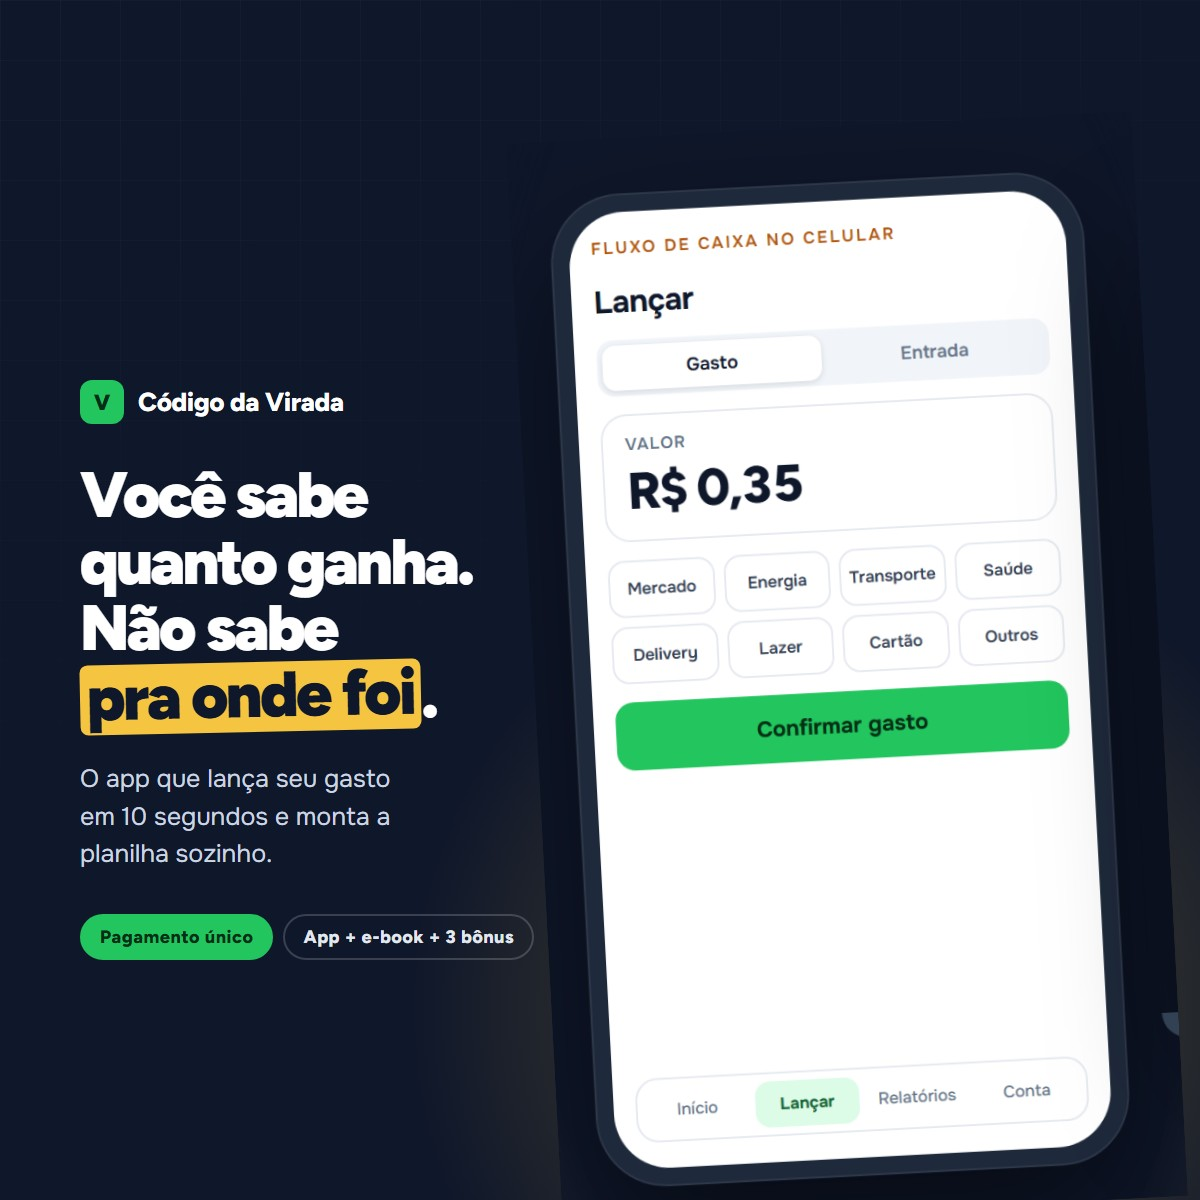
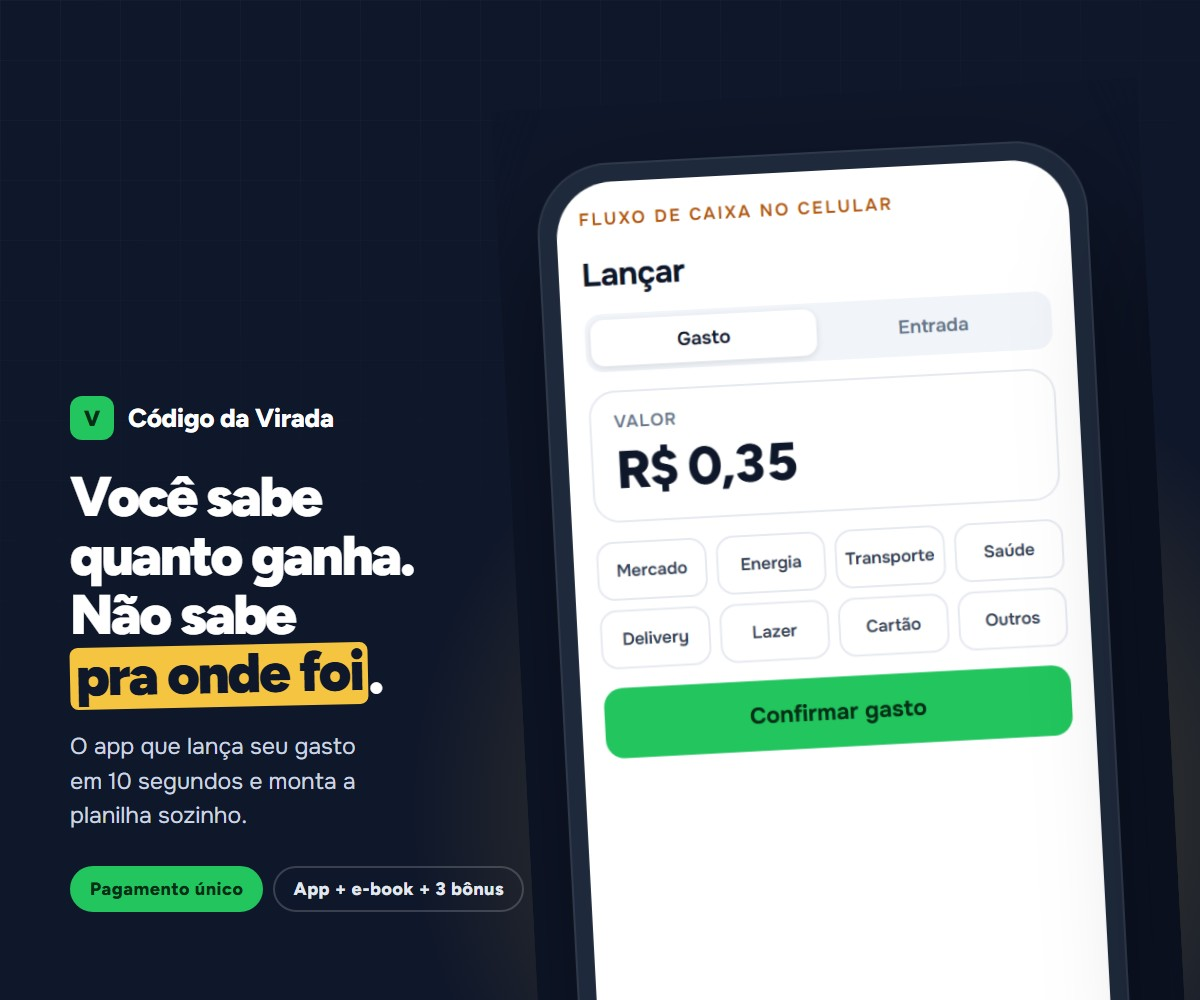
fix(assets): imagem do produto na proporção que a Kiwify pede
O campo recomenda 300x250 (6:5). A imagem estava quadrada e seria cortada.
Gerada em 1200x1000 para ficar nítida quando reduzida.

Claude-Session: https://claude.ai/code/session_0161xsctB3uk42drspMkQxAG

diff --git a/_design/imagem-produto-kiwify.html b/_design/imagem-produto-kiwify.html
@@ -7,7 +7,7 @@
 <link rel="stylesheet" href="https://fonts.googleapis.com/css2?family=Figtree:wght@700;800;900&family=Onest:wght@400;500;600&display=swap">
 <style>
   *{margin:0;padding:0;box-sizing:border-box;}
-  html,body{width:1200px;height:1200px;overflow:hidden;}
+  html,body{width:1200px;height:1000px;overflow:hidden;}
   body{
     background:#0F172A;
     font-family:'Onest',sans-serif;color:#fff;position:relative;
@@ -28,12 +28,12 @@
 
   .palco{
     position:relative;height:100%;
-    display:grid;grid-template-columns:1fr 430px;align-items:center;
-    padding:80px 40px 80px 80px;gap:34px;
+    display:grid;grid-template-columns:1fr 400px;align-items:center;
+    padding:64px 34px 64px 70px;gap:28px;
   }
 
   .marca{
-    display:flex;align-items:center;gap:14px;margin-bottom:38px;
+    display:flex;align-items:center;gap:14px;margin-bottom:28px;
   }
   .marca .bolha{
     width:44px;height:44px;border-radius:12px;
@@ -46,7 +46,7 @@
 
   h1{
     font-family:'Figtree',sans-serif;font-weight:900;
-    font-size:64px;line-height:1.04;letter-spacing:-.042em;
+    font-size:56px;line-height:1.05;letter-spacing:-.042em;
   }
   h1 .marcatexto{
     display:inline-block;background:#F5C542;color:#0F172A;
@@ -54,10 +54,10 @@
   }
 
   .sub{
-    margin-top:30px;font-size:25px;line-height:1.5;color:#CBD5E1;max-width:20ch;
+    margin-top:24px;font-size:23px;line-height:1.5;color:#CBD5E1;max-width:20ch;
   }
 
-  .selos{margin-top:40px;display:flex;flex-wrap:wrap;gap:10px;}
+  .selos{margin-top:32px;display:flex;flex-wrap:wrap;gap:10px;}
   .selo{
     font-family:'Figtree',sans-serif;font-size:18px;font-weight:800;
     letter-spacing:.03em;
@@ -70,7 +70,7 @@
     position:relative;height:100%;display:flex;align-items:center;justify-content:flex-end;
   }
   .aparelho img{
-    height:92%;width:auto;
+    height:95%;width:auto;
     transform:rotate(-3deg);
     filter:drop-shadow(0 40px 70px rgba(0,0,0,.55));
     -webkit-mask-image:radial-gradient(ellipse 74% 92% at 50% 50%, #000 78%, transparent 100%);
